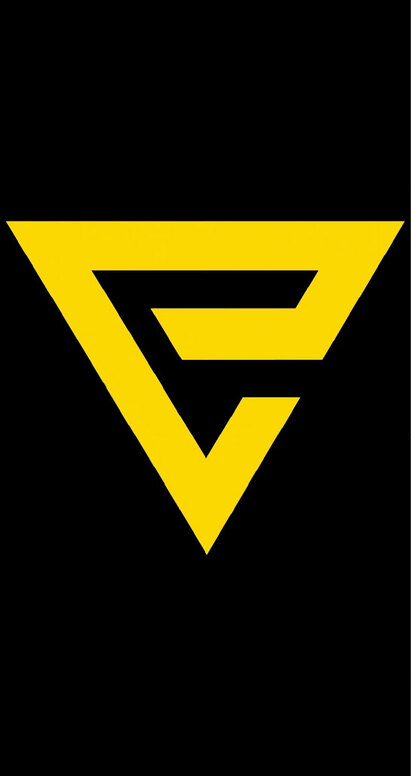
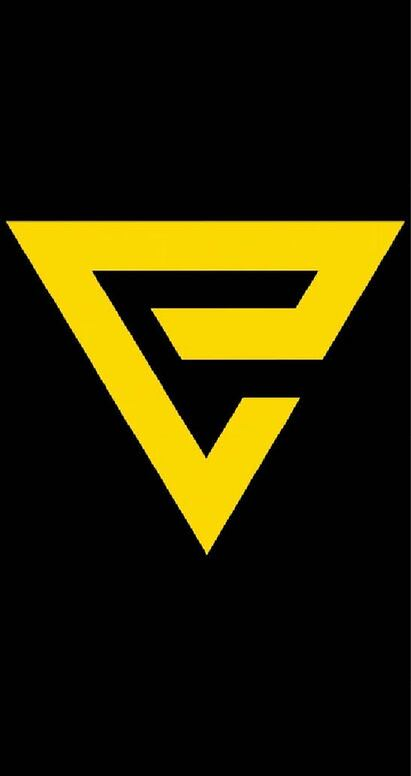
(WIP); Added viper school witcher assets // Updated witcher signs lg files

diff --git a/javascript/translations/strings/pl.js b/javascript/translations/strings/pl.js
@@ -736,7 +736,7 @@ STRNG["pl"] = {
     beast_of_tussant: "Bestia z Toussaints",
     dopler: "Doppler",
     reveal_dopler: "Siły Uderzeniowe Dopplera",
-    wshield: "Wiedźmin — Quen",
+    wshield: "Wiedźmini — Quen",
     quen: "Znaki Wiedźmińskie: Quen",
     eist_tuirseach: "Eist Tuirseach — King Of Citra",
     svalblod: "Svalblod Cult",
@@ -754,7 +754,7 @@ STRNG["pl"] = {
     temeriamoral: "Komandosi Niebieskich Pasów — Zwiadowca",
     temeriabluestripe: "Komandosi Niebieskich Pasów — Żołnierz",
     temeriabluestripe_2: "Komandosi Niebieskich Pasów — Żółnierz",
-    temeriamoral_1: "Komandosi Niebieskich Pasów — Quen",
+    temeriamoral_1: "Komandosi Niebieskich Pasów — Zwiadowca",
     vernontemeria_call: "Vernon Roche — Dowódca Odziałów Specjalnych Niebieskich Pasów",
     steward: "Hopeful Steward",
     guard: "Straż Królewska",
@@ -1309,7 +1309,9 @@ card_info: {
   roach_male: "Płotki",
   roach_female: "Płotki",
   rottenfruit_male: "Zbira",
-  rottenfruit_female: "Zbira"
+  rottenfruit_female: "Zbira",
+  potion_male: "Wiedźmińskich Eliksirów",
+  potion_female: "Wiedźmińskich Eliksirów"
 },
 rule63: [  // for classes
   {"if": "siege", "gender": "female", "hero": false, "mode": "split"}, // because siege strucutes powiny mieć "oblężniczej"

diff --git a/javascript/translations/strings/en.js b/javascript/translations/strings/en.js
@@ -642,7 +642,7 @@ STRNG["en"] = {
     beast_of_tussant: "Beast of Tussant",
     dopler: "Doppler",
     reveal_dopler: "Doppler Attack Force",
-    wshield: "Witcher — Quen",
+    wshield: "Witchers — Quen",
     quen: "Witcher Signs: Quen",
     eist_tuirseach: "Eist Tuirseach — King Of Citra",
     svalblod: "Svalblod Cult",
@@ -660,7 +660,7 @@ STRNG["en"] = {
     temeriamoral: "Blue Stripe Commando — Scout",
     temeriabluestripe: "Blue Stripe Commando — Soldier",
     temeriabluestripe_2: "Blue Stripe Commando — Soldier",
-    temeriamoral_1: "Blue Stripe Commando — Quen",
+    temeriamoral_1: "Blue Stripe Commando — Scout",
     vernontemeria_call: "Vernon Roche — Blue Stripes Commando Leader",
     steward: "Hopeful Steward",
     guard: "Royal Guard",

diff --git a/javascript/defines.js b/javascript/defines.js
@@ -219,10 +219,10 @@ let gryffinschool_conf = {
   //  topic: "Choose a Witcher Sign",
 };
 let viperSchool_conf = {
-  anim: "griffin",
-  anim_hand: "griffin_hand",
+  anim: "viper",
+  anim_hand: "viper_hand",
   // topic: "Choose a Potion",
-  show_notif: 67000,
+  show_notif: 5700,
 };
 let viper_potions_defs = {
   potion_jaskolka: {

diff --git a/full-credits.md b/full-credits.md
@@ -46,7 +46,7 @@ https://pngtree.com/freebackground/vintage-crinkled-paper-texture-aged-brown-bac
 - The Devil card: https://www.freeiconspng.com/img/44668, https://pixabay.com/sound-effects/people-possessed-laugh-94851/
 - "Bucket" row: https://www.magnific.com/free-photo/natural-woven-rattan-texture-detail_426434067.htm
 - Eredin elder blood: https://gwent.one/en/card/202606
-- Viper Witcher related assests: Witcher wiki
+- Viper Witcher related assests: Witcher wiki / Icon: https://www.deviantart.com/ari-m94/art/THE-WITCHER-SCHOOL-OF-THE-VIPER-LOGO-1027784715
 > Some card/mechanics/assets are used from other project like this (For example: RandomPianist/gwent-classic-v3.1, other similar project are mentioned at start of this copyright notice)
 
 
